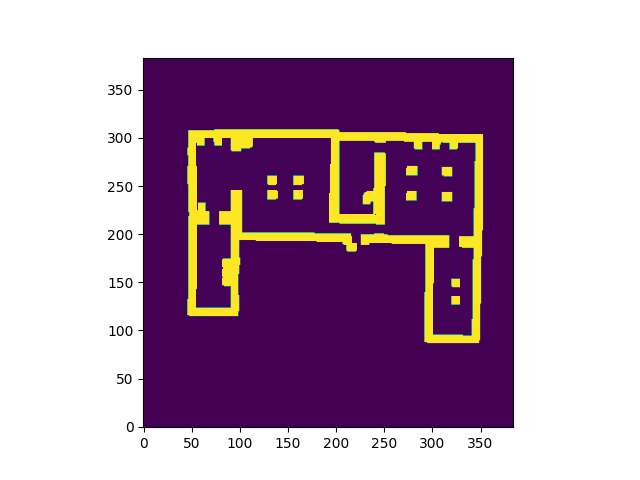
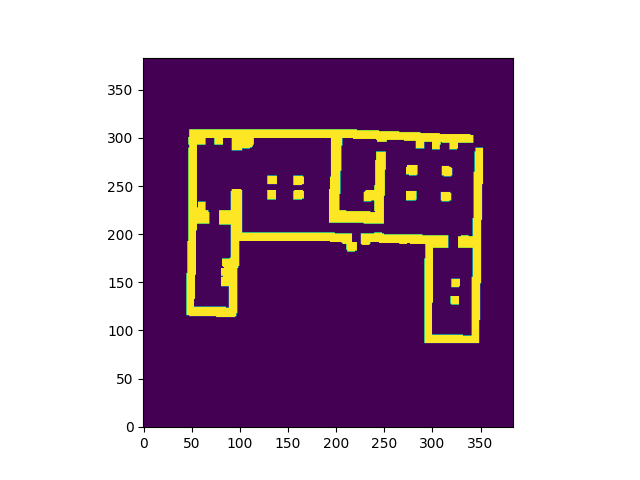
correct the map  to world and world to map coordinates

diff --git a/catkin_ws/src/exploration/src/search_and_rescue.py b/catkin_ws/src/exploration/src/search_and_rescue.py
@@ -48,13 +48,42 @@ class SearchAndRescue:
         # self.pose_sub = rospy.Subscriber("/tag_detections", AprilTagDetectionArray, self.predict_update)
 
         self.markerArray = MarkerArray()
+
         self.nav_goal_marker_pub = rospy.Publisher('visualization_goal', Marker,queue_size=10,latch=True)
         self.map_sub = rospy.Subscriber('/map', OccupancyGrid,self.set_map)
         self.rot_pub = rospy.Publisher('/cmd_vel', Twist, queue_size=10)
         self.exp_stop_sub = rospy.Subscriber("/exploration_stop_flag",Bool,self.start_search_and_rescue)
 
-        rospy.sleep(2)
-        self.goal_queue = [goal_pt.reshape(-1,2) for goal_pt in self.grid_map(self.map_grid)]
+
+        # print("send goal")
+        # coord = np.array([0,380]).reshape(-1,2)
+        # goal = self.map_indices_to_world_coordinates(coord)
+        # print(goal)
+        # self.goal_and_rotate(goal.ravel()[0],goal.ravel()[1])
+
+        # print(self.world_coordinates_to_map_indices(goal))
+        # print("HERERE")
+        
+        # rospy.sleep(0.5)
+        # self.goal_queue = [goal_pt.reshape(-1,2) for goal_pt in self.grid_map(self.map_grid)]
+
+
+        # self.nav_goal_markers = rospy.Publisher('queue_goal', MarkerArray,queue_size=10,latch=True)
+
+        # for goal in self.goal_queue:
+        #     goal = goal.ravel()
+        #     self.markerArray.markers.append(self.create_marker(goal[0],goal[1]))
+
+        # id = 0
+        # for m in self.markerArray.markers:
+        #     m.id = id
+        #     id += 1
+
+
+        # while not rospy.is_shutdown():
+        #     self.nav_goal_markers.publish(self.markerArray)
+
+
 
         # self.goal_and_rotate(-10,-10)
         
@@ -99,9 +128,9 @@ class SearchAndRescue:
         self.map_grid_width = map.info.width
         self.map_grid_height = map.info.height
 
-        print(map.info.width,map.info.width)
+        # print(map.info.width,map.info.width)
 
-        self.map_grid = np.reshape(map.data,(self.map_grid_height,self.map_grid_width))
+        self.map_grid = np.reshape(map.data,(self.map_grid_height,self.map_grid_width)).T
         self.map_dims = (int(self.map_grid_width),int(self.map_grid_width))
 
         # import matplotlib.pyplot as plt
@@ -110,7 +139,11 @@ class SearchAndRescue:
 
     def grid_map(self,map_grid):
         width,height = map_grid.shape
-        print(width,height)
+
+
+        # import matplotlib.pyplot as plt
+        # plt.imshow(self.map_grid,origin="lower")
+        # plt.savefig("house.png")
         # dense_idx = np.mgrid[0:height,0:width]
 
         # sparse_idx = dense_idx[:,::10,::10]
@@ -129,8 +162,8 @@ class SearchAndRescue:
         map_grid = self.inflate_map(map_grid,radius=0.2)
 
         # import matplotlib.pyplot as plt
-        # plt.imshow(self.map_grid,origin="lower")
-        # plt.savefig("random.png")
+        # plt.imshow(map_grid,origin="lower")
+        # plt.savefig("house_inflate.png")
 
         valid_map_indices  = map_indices[valid_idx]
 
@@ -162,9 +195,9 @@ class SearchAndRescue:
                     map_grid_inflated[min_i:max_i,min_j:max_j] = 100
         
 
-        import matplotlib.pyplot as plt
-        plt.imshow(map_grid_inflated,origin="lower")
-        plt.savefig("random_inflated_house.png")
+        # import matplotlib.pyplot as plt
+        # plt.imshow(map_grid_inflated,origin="lower")
+        # plt.savefig("random_inflated_house.png")
         return map_grid_inflated
 
         
@@ -203,6 +236,8 @@ class SearchAndRescue:
         if success:
             self.rotate_360()
 
+        # success=True
+
         return success
 
     # def send_rotation(self,msg):
@@ -233,7 +268,7 @@ class SearchAndRescue:
         marker.scale.y = 0.2
         marker.scale.z = 0.2
         marker.color.a = 1.0
-        marker.color.r = 1.0
+        marker.color.r = 0.0
         marker.color.g = 1.0
         marker.color.b = 0.0
         marker.pose.orientation.w = 1.0
@@ -274,8 +309,8 @@ class SearchAndRescue:
         pos_in_W = pos_in_W.reshape((-1,2))
 
         T_WtoG = (1/self.map_resolution) * np.array([
-            [0,1,self.map_origin_x*self.map_resolution],
-            [1,0,self.map_origin_y*self.map_resolution],
+            [1,0,self.map_origin_x*self.map_resolution],
+            [0,1,self.map_origin_y*self.map_resolution],
             [0,0,1]
         ])
 
